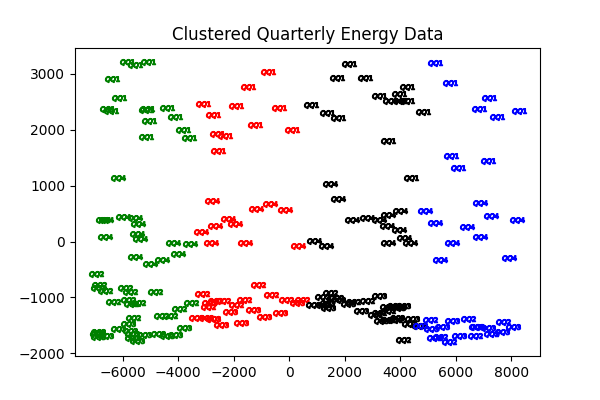
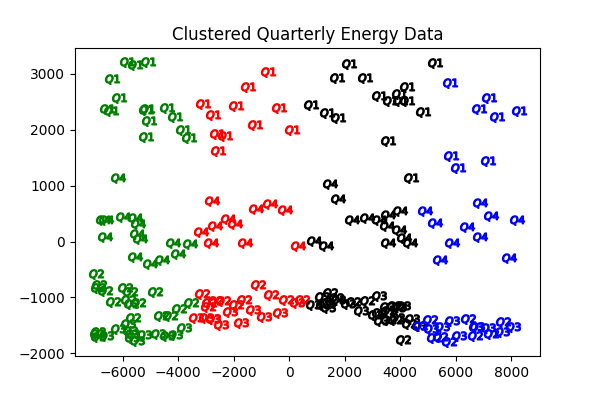
Initial Commit

diff --git a/EDA/clusters.py b/EDA/clusters.py
@@ -1,3 +1,7 @@
+"""
+Script to create clusters of quarters based on energy consumption and GDP.
+"""
+
 import matplotlib.pyplot as plt
 import pandas as pd
 from sklearn.cluster import KMeans
@@ -24,7 +28,7 @@ color_map = [colors[i] for i in kmeans.labels_]
 
 plt.figure(figsize=(6, 4))
 for i in range(len(x_data)):
-    plt.scatter(x_data[i], y_data[i], marker=f'$Q{point_data[i]}$', c=color_map[i], s=100)
+    plt.scatter(x_data[i], y_data[i], marker=f'${point_data[i]}$', c=color_map[i], s=100)
 
 plt.title('Clustered Quarterly Energy Data')
 plt.savefig('clusters.png')
